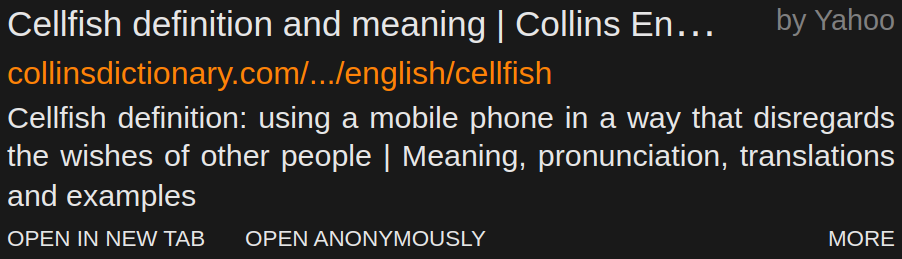
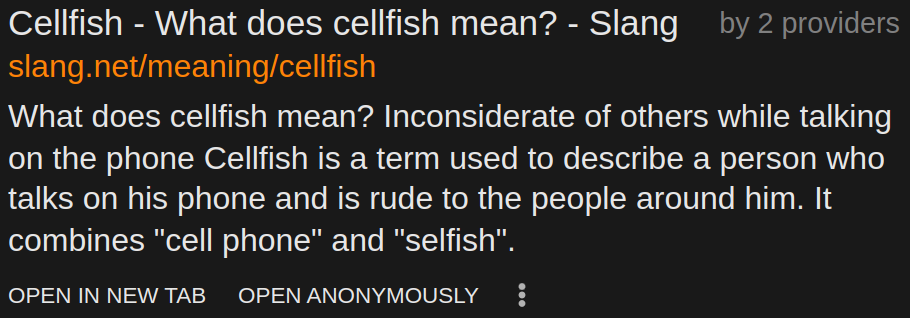
add new and engl pictures for easy lang

diff --git a/metager/resources/views/help/easy-language/help-mainpages.blade.php b/metager/resources/views/help/easy-language/help-mainpages.blade.php
@@ -24,17 +24,35 @@
 		<p>{!! trans('help/easy-language/help-mainpages.searchfield.info') !!}</p>
 		<h4>{!! trans('help/easy-language/help-mainpages.searchfield.memberkey.1') !!}</h4>
 		<p>{!! trans('help/easy-language/help-mainpages.searchfield.memberkey.2') !!}</p>
+		@if (App\Localization::getLanguage() == "de")
 		<img class="help-easy-language-image lm-only" src="/img/help-left-searchfield-lm.png"/>
 		<img class="help-easy-language-image dm-only" src="/img/help-left-searchfield-dm.png"/>
+		@else
+		<img class="help-easy-language-image lm-only" src="/img/help-left-searchfield-lm-en.png"/>
+		<img class="help-easy-language-image dm-only" src="/img/help-left-searchfield-dm-en.png"/>
+		@endif
+
 		<p>{!! trans('help/easy-language/help-mainpages.searchfield.memberkey.3') !!}</p>
 		<h4>{!! trans('help/easy-language/help-mainpages.searchfield.slot.1') !!}</h4>
 		<p>{!! trans('help/easy-language/help-mainpages.searchfield.slot.2') !!}</p>
+		@if (App\Localization::getLanguage() == "de")
+
 		<img class="help-easy-language-image lm-only" src="/img/help-middle-searchfield-lm.png"/>
 		<img class="help-easy-language-image dm-only" src="/img/help-middle-searchfield-dm.png"/>
+		@else
+		<img class="help-easy-language-image lm-only" src="/img/help-middle-searchfield-lm-en.png"/>
+		<img class="help-easy-language-image dm-only" src="/img/help-middle-searchfield-dm-en.png"/>
+		@endif
 		<h4>{!! trans('help/easy-language/help-mainpages.searchfield.search.1') !!}</h4>
 		<p>{!! trans('help/easy-language/help-mainpages.searchfield.search.2') !!}<p>
+		@if (App\Localization::getLanguage() == "de")
+
 		<img class="help-easy-language-image lm-only" src="/img/help-right-searchfield-lm.png"/>
 		<img class="help-easy-language-image dm-only" src="/img/help-right-searchfield-dm.png"/>
+		@else
+		<img class="help-easy-language-image lm-only" src="/img/help-right-searchfield-lm-en.png"/>
+		<img class="help-easy-language-image dm-only" src="/img/help-right-searchfield-dm-en.png"/>
+		@endif
 		<p>{!! trans('help/easy-language/help-mainpages.searchfield.search.3') !!}</p>
 		<p>{!! trans('help/easy-language/help-mainpages.searchfield.morefunctions') !!}</p>
 	</div>
@@ -61,8 +79,14 @@
 		<div>
 			<p>{!! trans('help/easy-language/help-mainpages.result.info.1') !!}</p>
 			<div class="image-container">
-				<img class="lm-only" src="/img/help-php-resultpic-01.png" alt="Bildschirmfoto eines Suchergebnisses"/>
-				<img class="dm-only" src="/img/help-php-resultpic-01-dm.png" alt="Bildschirmfoto eines Suchergebnisses"/>
+				@if (App\Localization::getLanguage() == "de")
+				<img class="lm-only" src="/img/help-resultpic-01-lm.png" alt="Bildschirmfoto eines Suchergebnisses"/>
+				<img class="dm-only" src="/img/help-resultpic-01-dm.png" alt="Bildschirmfoto eines Suchergebnisses"/>
+				@else
+				<img class="lm-only" src="/img/help-result-en-lm-01.png" alt="Screenshot of a result"/>
+				<img class="dm-only" src="/img/help-result-en-dm-01.png" alt="Screenshot of a result"/>
+				@endif
+
 			</div>
 			<h4>{!! trans('help/easy-language/help-mainpages.result.info.open.title') !!}</h4>
 			<p>{!! trans('help/easy-language/help-mainpages.result.info.open.0') !!}</p>
@@ -78,8 +102,13 @@
 			<h4>{!! trans('help/easy-language/help-mainpages.result.info.more.title') !!}</h4>
 			<p>{!! trans('help/easy-language/help-mainpages.result.info.more.1') !!}</p>
 			<div class="image-container">
-				<img class="lm-only" src="/img/help-php-resultpic-02.png" alt="Bildschirmfoto eines Suchergebnisses"/>
-				<img class="dm-only" src="/img/help-php-resultpic-02-dm.png" alt="Bildschirmfoto eines Suchergebnisses"/>
+			@if (App\Localization::getLanguage() == "de")
+				<img class="lm-only" src="/img/help-resultpic-02-lm.png" alt="Bildschirmfoto eines Suchergebnisses"/>
+				<img class="dm-only" src="/img/help-resultpic-02-dm.png" alt="Bildschirmfoto eines Suchergebnisses"/>
+				@else
+				<img class="lm-only" src="/img/help-result-en-lm-02.png" alt="Screenshot of a result"/>
+				<img class="dm-only" src="/img/help-result-en-dm-02.png" alt="Screenshot of a result"/>
+				@endif
 			</div>
 			<p>{!! trans('help/easy-language/help-mainpages.result.info.2') !!}</p>
 			<h4>{!! trans('help/easy-language/help-mainpages.result.info.domainnewsearch.title') !!}</h4>
